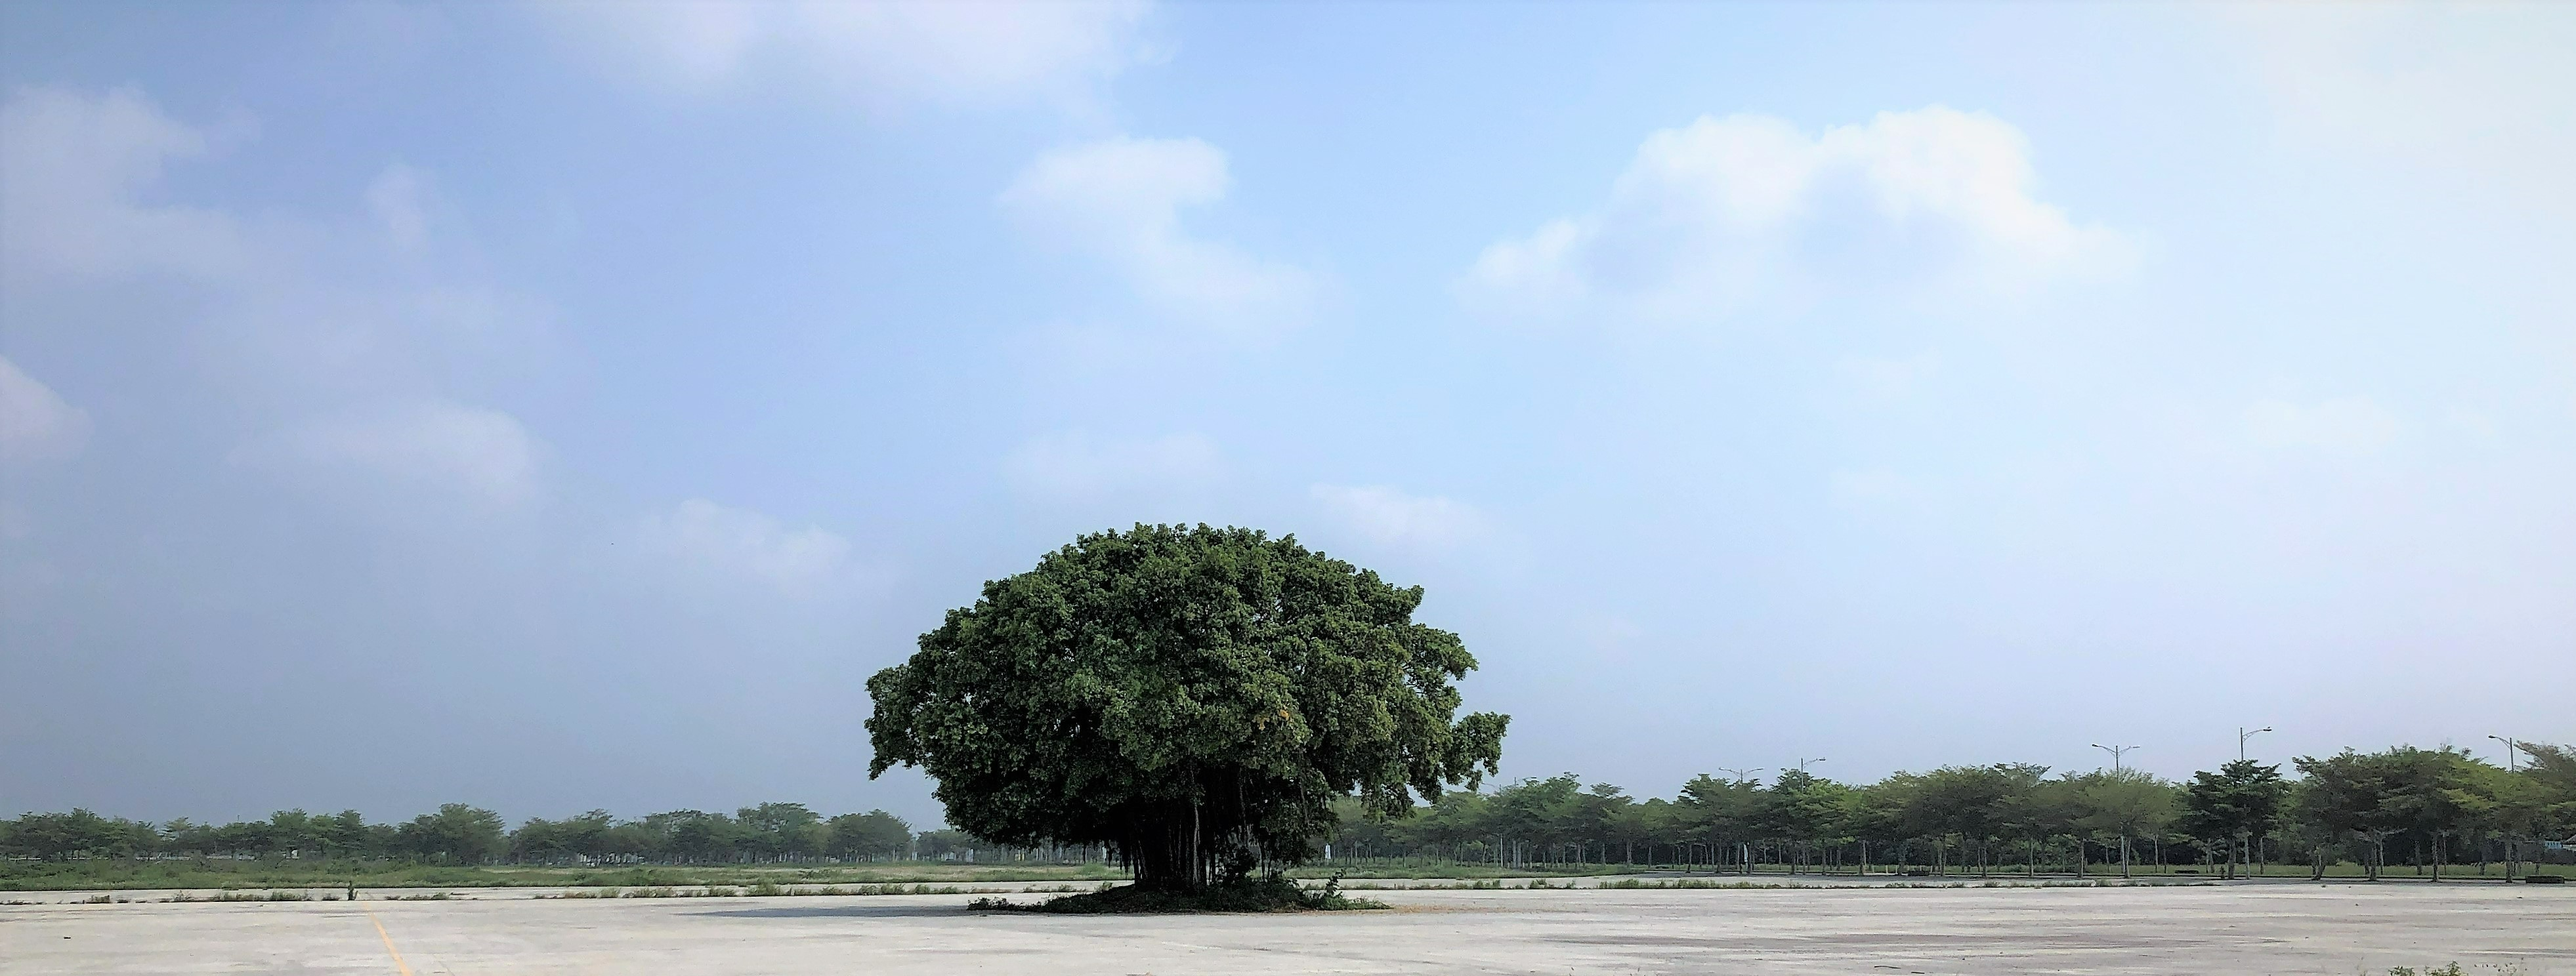
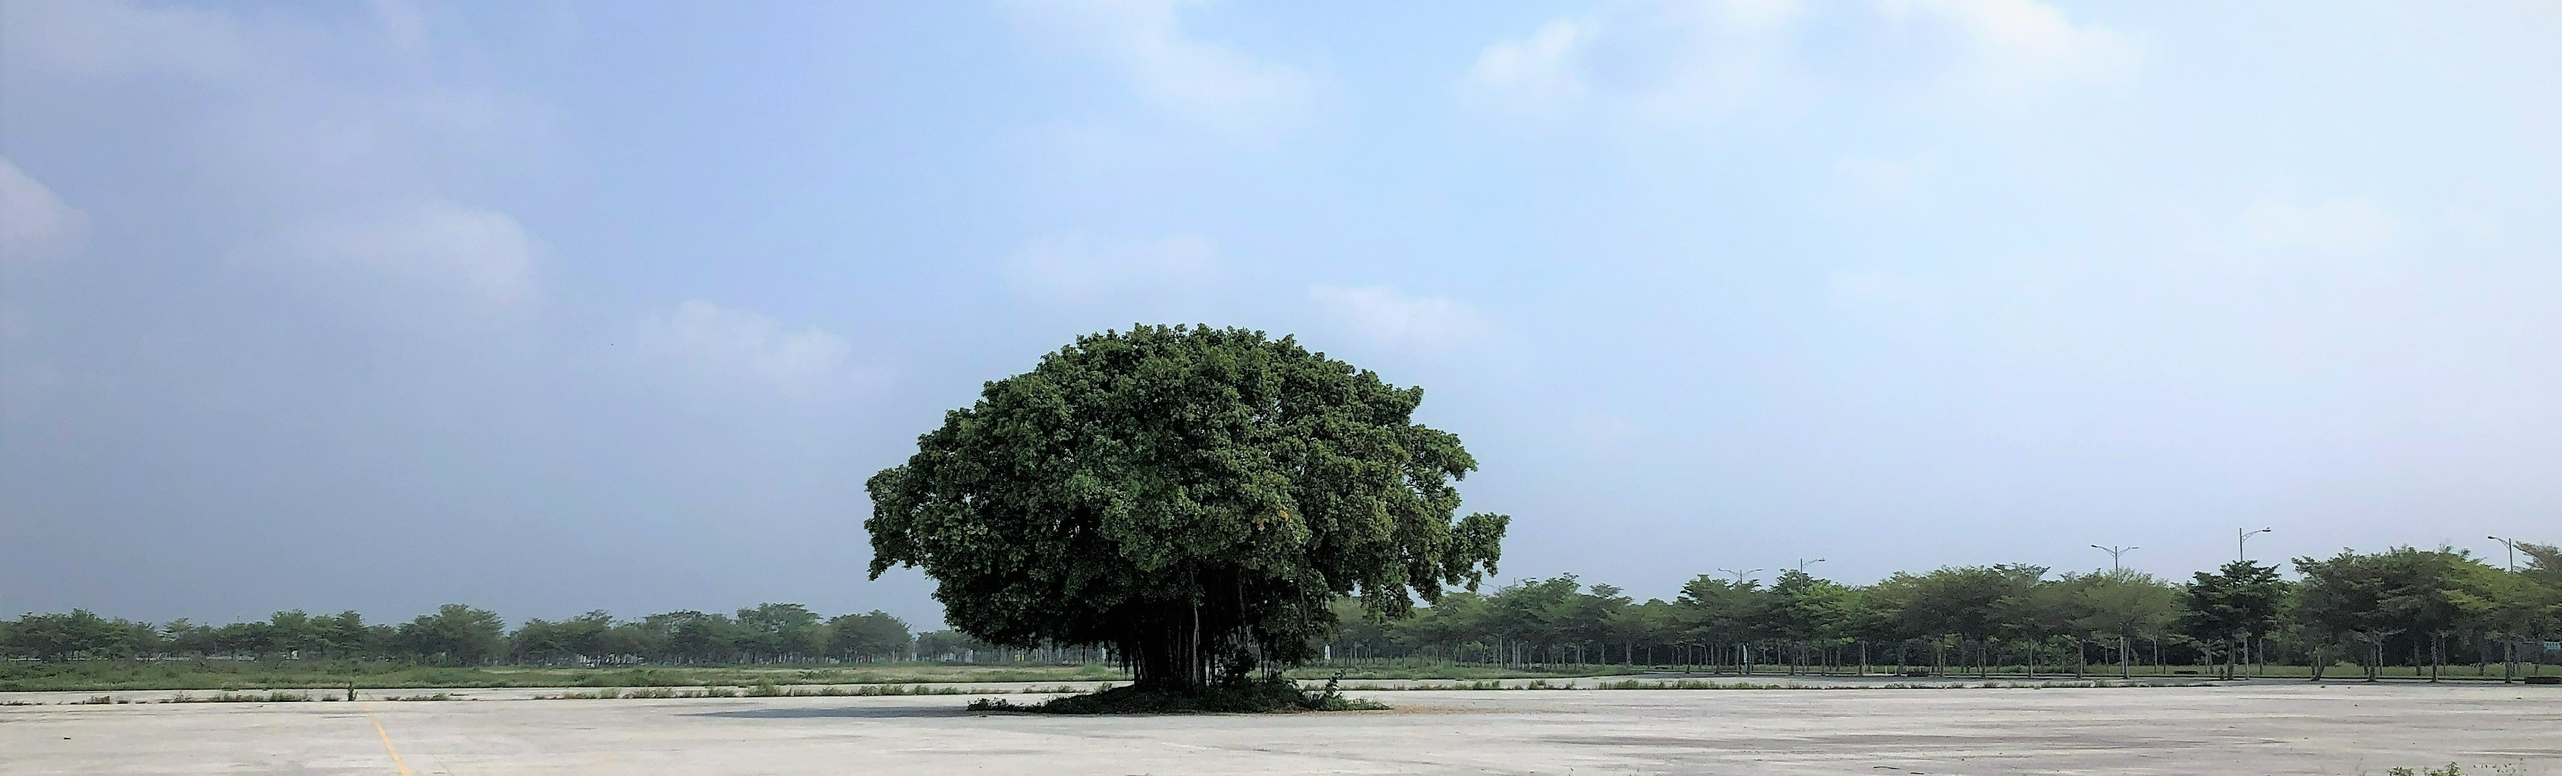
website updated

diff --git a/job.html b/job.html
@@ -51,7 +51,7 @@
       <div class="text-center">
         <img src="../img/teeth.png" alt="Teeth" class="img-fluid img-size">
       </div>
-      <h3 class="text-center font-weight-bold mb-5">一般歯科</h3>
+      <h3 class="text-center font-weight-bold mb-5">社區照護相關工作徵才</h3>
 
       <div class="row py-4 border-top border-bottom">
         <div class="col-md-4 mb-5 mb-md-0 text-center">
@@ -59,8 +59,8 @@
         </div>
         <div class="col-md-8">
           <div class="px-2">
-            <h3>タイトルが入ります。</h3>
-            <p class="pl-2">親譲おやゆずりの無鉄砲むてっぽうで小供の時から損ばかりしている。小学校に居る時分学校の二階から飛び降りて一週間ほど腰こしを抜ぬかした事がある。</p>
+            <h3>新北市政府衛生局聘用關懷訪視員</h3>
+            <p class="pl-2">https://www.1111.com.tw/search/job?ks=%E9%97%9C%E6%87%B7%E8%A8%AA%E8%A6%96%E5%93%A1</p>
           </div>
         </div>
       </div>
@@ -70,8 +70,8 @@
         </div>
         <div class="col-md-8">
           <div class="px-2">
-            <h3>タイトルが入ります。</h3>
-            <p class="pl-2">親譲おやゆずりの無鉄砲むてっぽうで小供の時から損ばかりしている。小学校に居る時分学校の二階から飛び降りて一週間ほど腰こしを抜ぬかした事がある。</p>
+            <h3>訪視員</h3>
+            <p class="pl-2">https://www.1111.com.tw/job/98694638/</p>
           </div>
         </div>
       </div>

diff --git a/index.html b/index.html
@@ -55,7 +55,7 @@
     </nav>
 
     <div class="jumbotron-fluid">
-      <img src="img/pic033_1.jpg" alt="Main Image" class="img-fluid">
+      <img src="img/pic033_3.jpeg" alt="Main Image" class="img-fluid">
     </div>
   </header>
 
